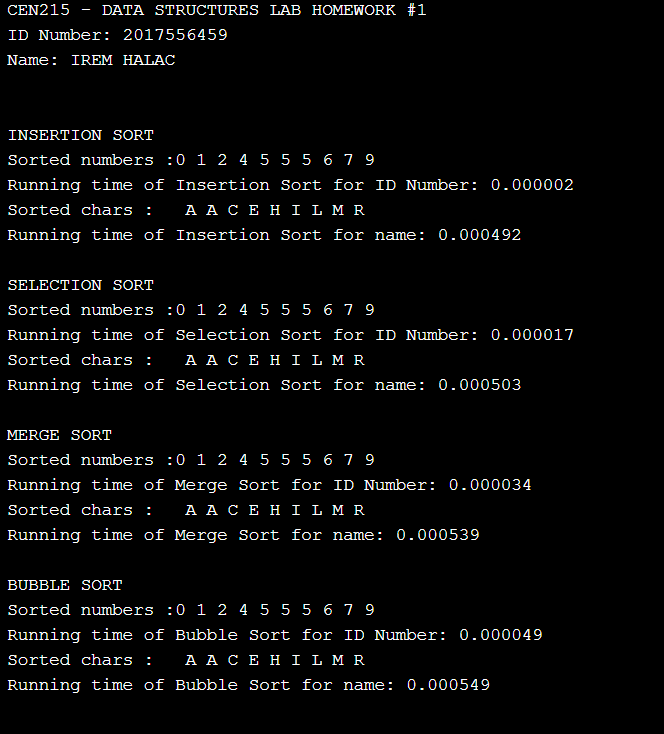
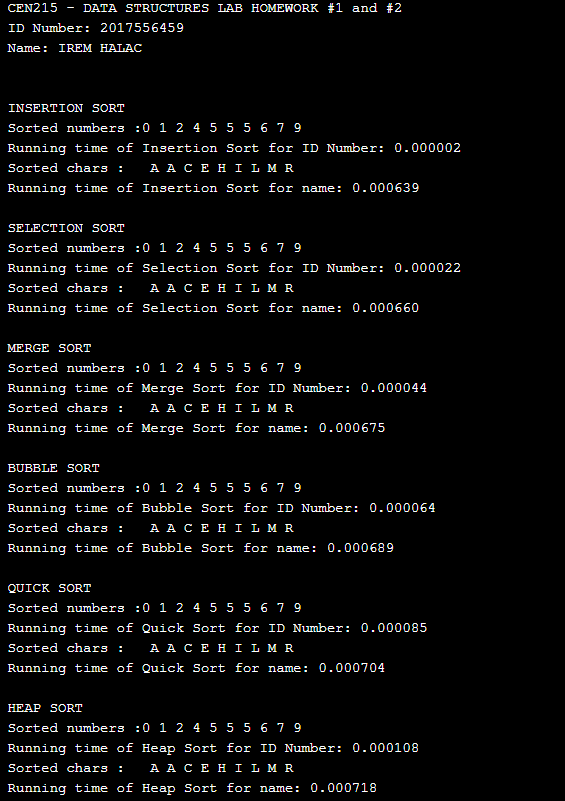
2017556459 İrem HALAÇ

diff --git a/Sorting/2017556459 İrem HALAÇ/homework1.c b/Sorting/2017556459 İrem HALAÇ/homework1.c
@@ -197,6 +197,125 @@ void mergeSortName(char arr[], int left, int right) {
 	}
 }
 
+//QUICK SORT
+int partitionIdNumber(int arr[], int left, int right)
+{
+    int pivot = arr[right];
+    int low = (left - 1);
+    int high;
+    
+    for ( high = left; high <= right- 1; high++)
+    {
+        if (arr[high] <= pivot)
+        {
+            low++;
+            swapIdNumber(&arr[low], &arr[high]);
+        }
+    }
+    swapIdNumber(&arr[low + 1], &arr[right]);
+    return (low + 1);
+}
+
+void quickSortIdNumber(int arr[], int left, int right)
+{
+    if (left < right)
+    {
+        int pivot = partitionIdNumber(arr, left, right);
+        quickSortIdNumber(arr, left, pivot - 1);
+        quickSortIdNumber(arr, pivot + 1, right);
+    }
+}
+
+char partitionName(char arr[],int left,int right){
+    int pivot = arr[right];
+    int low = (left - 1);
+    int high;
+    
+    for ( high = left; high <= right- 1; high++)
+    {
+        if (arr[high] <= pivot)
+        {
+            low++;
+            swapName(&arr[low], &arr[high]);
+        }
+    }
+    swapName(&arr[low + 1], &arr[right]);
+    return (low + 1);
+}
+
+void quickSortName(char arr[], int left, int right)
+{
+    if (left < right)
+    {
+        int pivot = partitionName(arr, left, right);
+        quickSortName(arr, left, pivot - 1);
+        quickSortName(arr, pivot + 1, right);
+    }
+}
+
+//HEAP SORT
+void heapifyIdNumber(int arr[],int size,int i) {
+	int largest = i;
+	int leftChild = 2 * i + 1;
+	int rightChild = 2 * i + 2;
+	
+	if (arr[leftChild] > arr[largest] && leftChild<size) 
+		largest = leftChild;
+
+		if (arr[rightChild] > arr[largest] && rightChild<size) 
+			largest = rightChild;
+		if (largest != i) {
+			swapIdNumber(&arr[i], &arr[largest]);
+			heapifyIdNumber(arr, size, largest);
+		}
+
+}
+void heapSortIdNumber(int arr[],int size) {
+	int i;
+	for (i = size / 2 - 1; i >= 0;i-- ) {
+		heapifyIdNumber(arr, size, i);
+	}
+
+	for (i = size - 1; i > 0; i--) {
+		swapIdNumber(&arr[0],&arr[i]);
+		heapifyIdNumber(arr , i , 0);
+	}
+
+}
+
+
+void heapifyName(char arr[],int size,int i) {
+	int largest = i;
+	int leftChild = 2 * i + 1;
+	int rightChild = 2 * i + 2;
+	
+	if (arr[leftChild] > arr[largest] && leftChild<size) 
+		largest = leftChild;
+
+		if (arr[rightChild] > arr[largest] && rightChild<size) 
+			largest = rightChild;
+		if (largest != i) {
+			swapName(&arr[i], &arr[largest]);
+			heapifyName(arr, size, largest);
+		}
+
+}
+void heapSortName(char arr[],int size) {
+	int i;
+	for (i = size / 2 - 1; i >= 0;i-- ) {
+		heapifyName(arr, size, i);
+	}
+
+	for (i = size - 1; i > 0; i--) {
+		swapName(&arr[0],&arr[i]);
+		heapifyName(arr , i , 0);
+	}
+
+}
+
+
+
+
 //PRINT SORTS
 void printSortIdNumber(int arr[], int size) {
 	int i;
@@ -219,7 +338,7 @@ void printSortName(char arr[], int size) {
 
 int main() {
 	
-	printf(" CEN215 - DATA STRUCTURES LAB HOMEWORK #1\n");
+	printf(" CEN215 - DATA STRUCTURES LAB HOMEWORK #1 and #2\n");
 	printf(" ID Number: 2017556459\n");
 	printf(" Name: IREM HALAC\n\n\n");
 	
@@ -292,6 +411,39 @@ int main() {
 	timer = clock() - timer;
 	printSortName(Name4, NameSize4);
 	printf(" Running time of Bubble Sort for name: %f\n\n", ((double)(timer)) / CLOCKS_PER_SEC);
+
+    printf(" QUICK SORT\n");
+	int IdNumber5[] = { 2,0,1,7,5,5,6,4,5,9 };
+	char Name5[] = "IREM HALAC";
+	int IdNumberSize5 = sizeof(IdNumber5) / sizeof(IdNumber5[0]);
+	int NameSize5 = strlen(Name5);
+	quickSortIdNumber(IdNumber5, 0,IdNumberSize5-1);
+	timer = clock() - timer;
+	printSortIdNumber(IdNumber5, IdNumberSize5);
+	printf(" Running time of Quick Sort for ID Number: %f\n", ((double)(timer)) / CLOCKS_PER_SEC);
+
+	quickSortName(Name5, 0, NameSize5-1);
+	timer = clock() - timer;
+	printSortName(Name5, NameSize5);
+	printf(" Running time of Quick Sort for name: %f\n\n", ((double)(timer)) / CLOCKS_PER_SEC);
+	
+	
+	printf(" HEAP SORT\n");
+	int IdNumber6[] = { 2,0,1,7,5,5,6,4,5,9 };
+	char Name6[] = "IREM HALAC";
+	int IdNumberSize6 = sizeof(IdNumber6) / sizeof(IdNumber6[0]);
+	int NameSize6 = strlen(Name6);
+	heapSortIdNumber(IdNumber6, IdNumberSize6);
+	timer = clock() - timer;
+	printSortIdNumber(IdNumber6, IdNumberSize6);
+	printf(" Running time of Heap Sort for ID Number: %f\n", ((double)(timer)) / CLOCKS_PER_SEC);
+
+	heapSortName(Name6, NameSize6);
+	timer = clock() - timer;
+	printSortName(Name6, NameSize6);
+	printf(" Running time of Heap Sort for name: %f\n\n", ((double)(timer)) / CLOCKS_PER_SEC);
+
+
 
 
 
